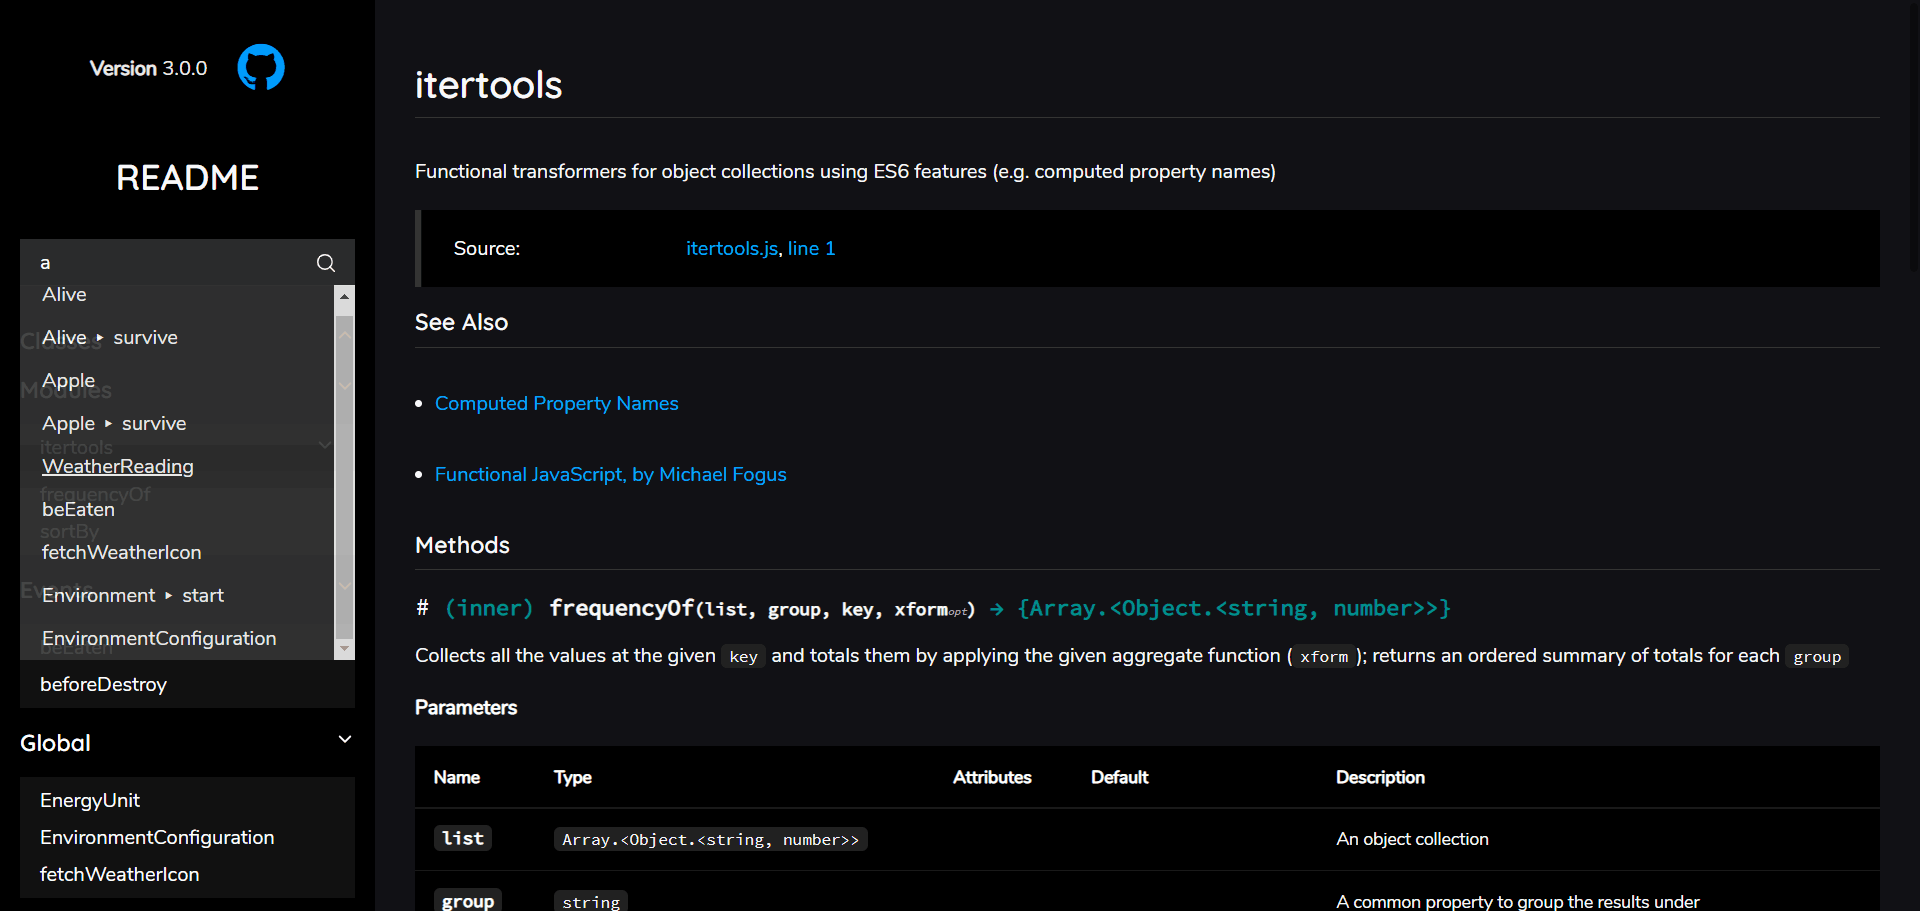
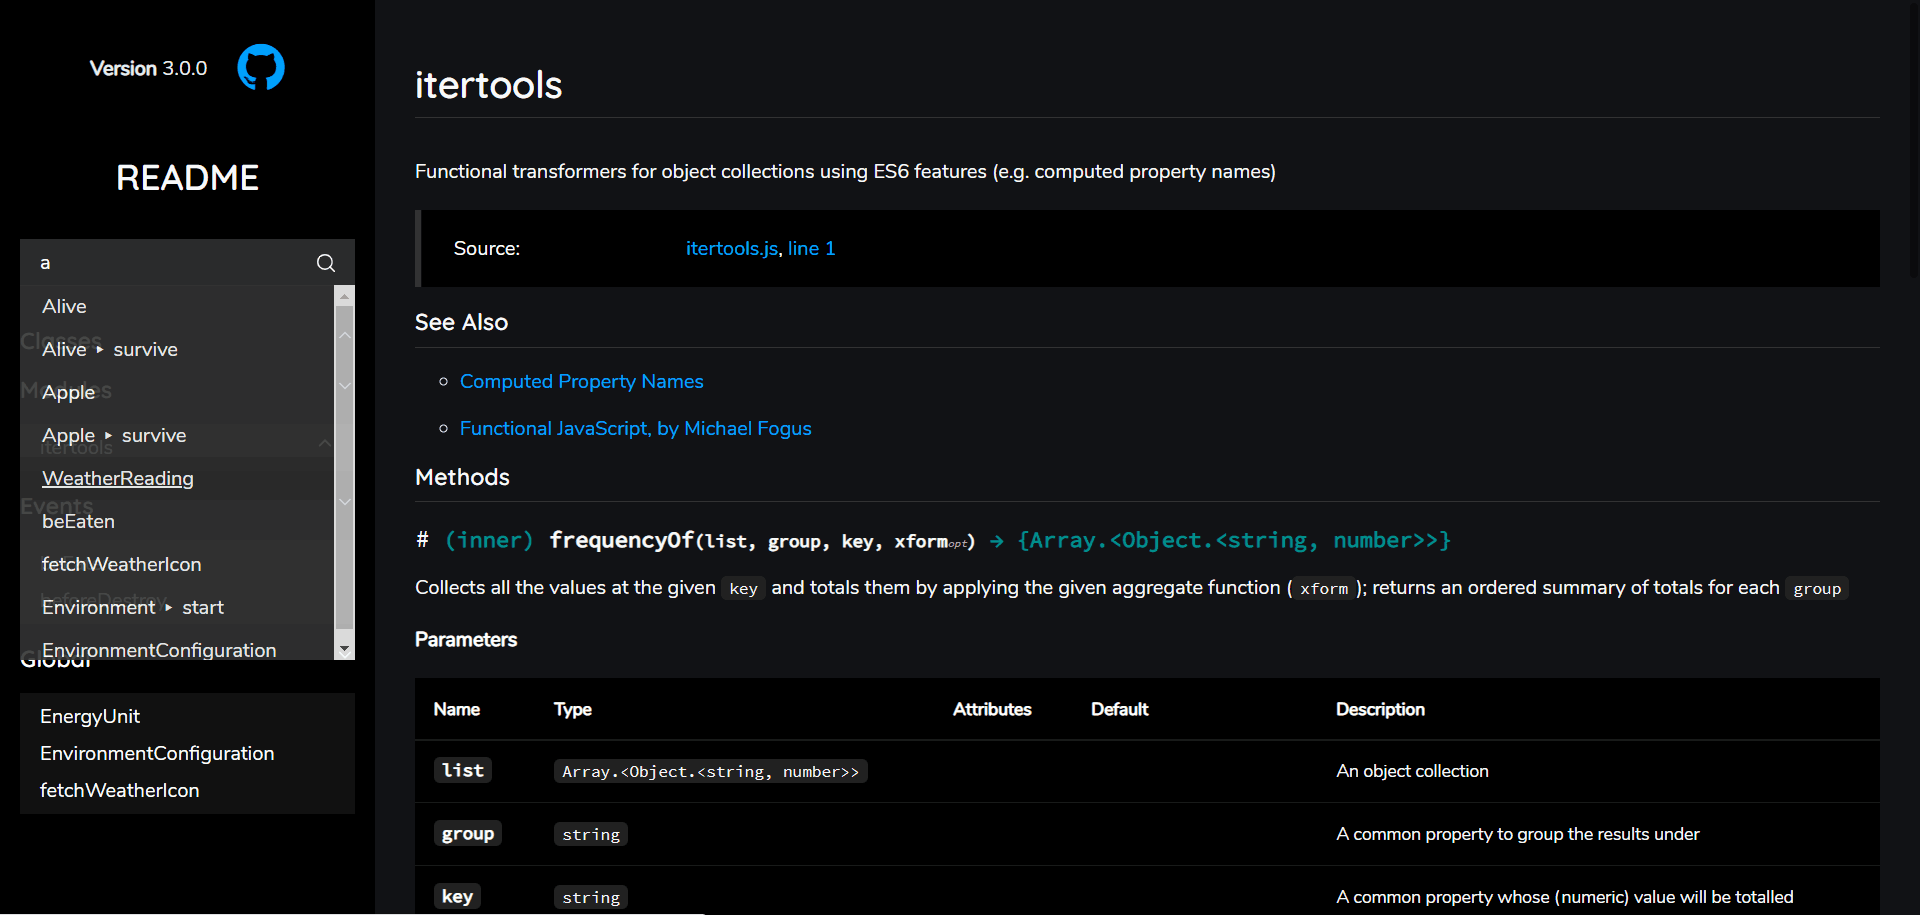
Tweak list style

diff --git a/static/styles/jsdoc-default.css b/static/styles/jsdoc-default.css
@@ -170,7 +170,7 @@ article ol {
 }
 
 .see-links li {
-    padding: 0.1rem 0;
+    padding: 0;
 }
 
 .see-links li::before, .details ul li::before {
@@ -388,8 +388,16 @@ code {
     border: 0;
 }
 
-.readme ul, .readme ol {
+/* stylelint-disable */
+
+.readme ul, .readme ol, ul.see-links, ol.see-links {
+    padding-left: 2.25rem;
     list-style: circle !important;
+}
+
+/* stylelint-enable */
+
+.readme ul, .readme ol {
     margin-bottom: 0;
     padding-bottom: 0;
 }

diff --git a/README.md b/README.md
@@ -17,6 +17,10 @@
 ![dark_doc_page](https://rdipardo.github.io/clean-jsdoc-theme/img/dark_doc_example.png)
 </div>
 
+<hr/>
+
+## Contents
+
 - [Getting Started](#quick-start)
 - [Adding to Your Workflow](#workflow-integration)
 - [Configuration](#options)
